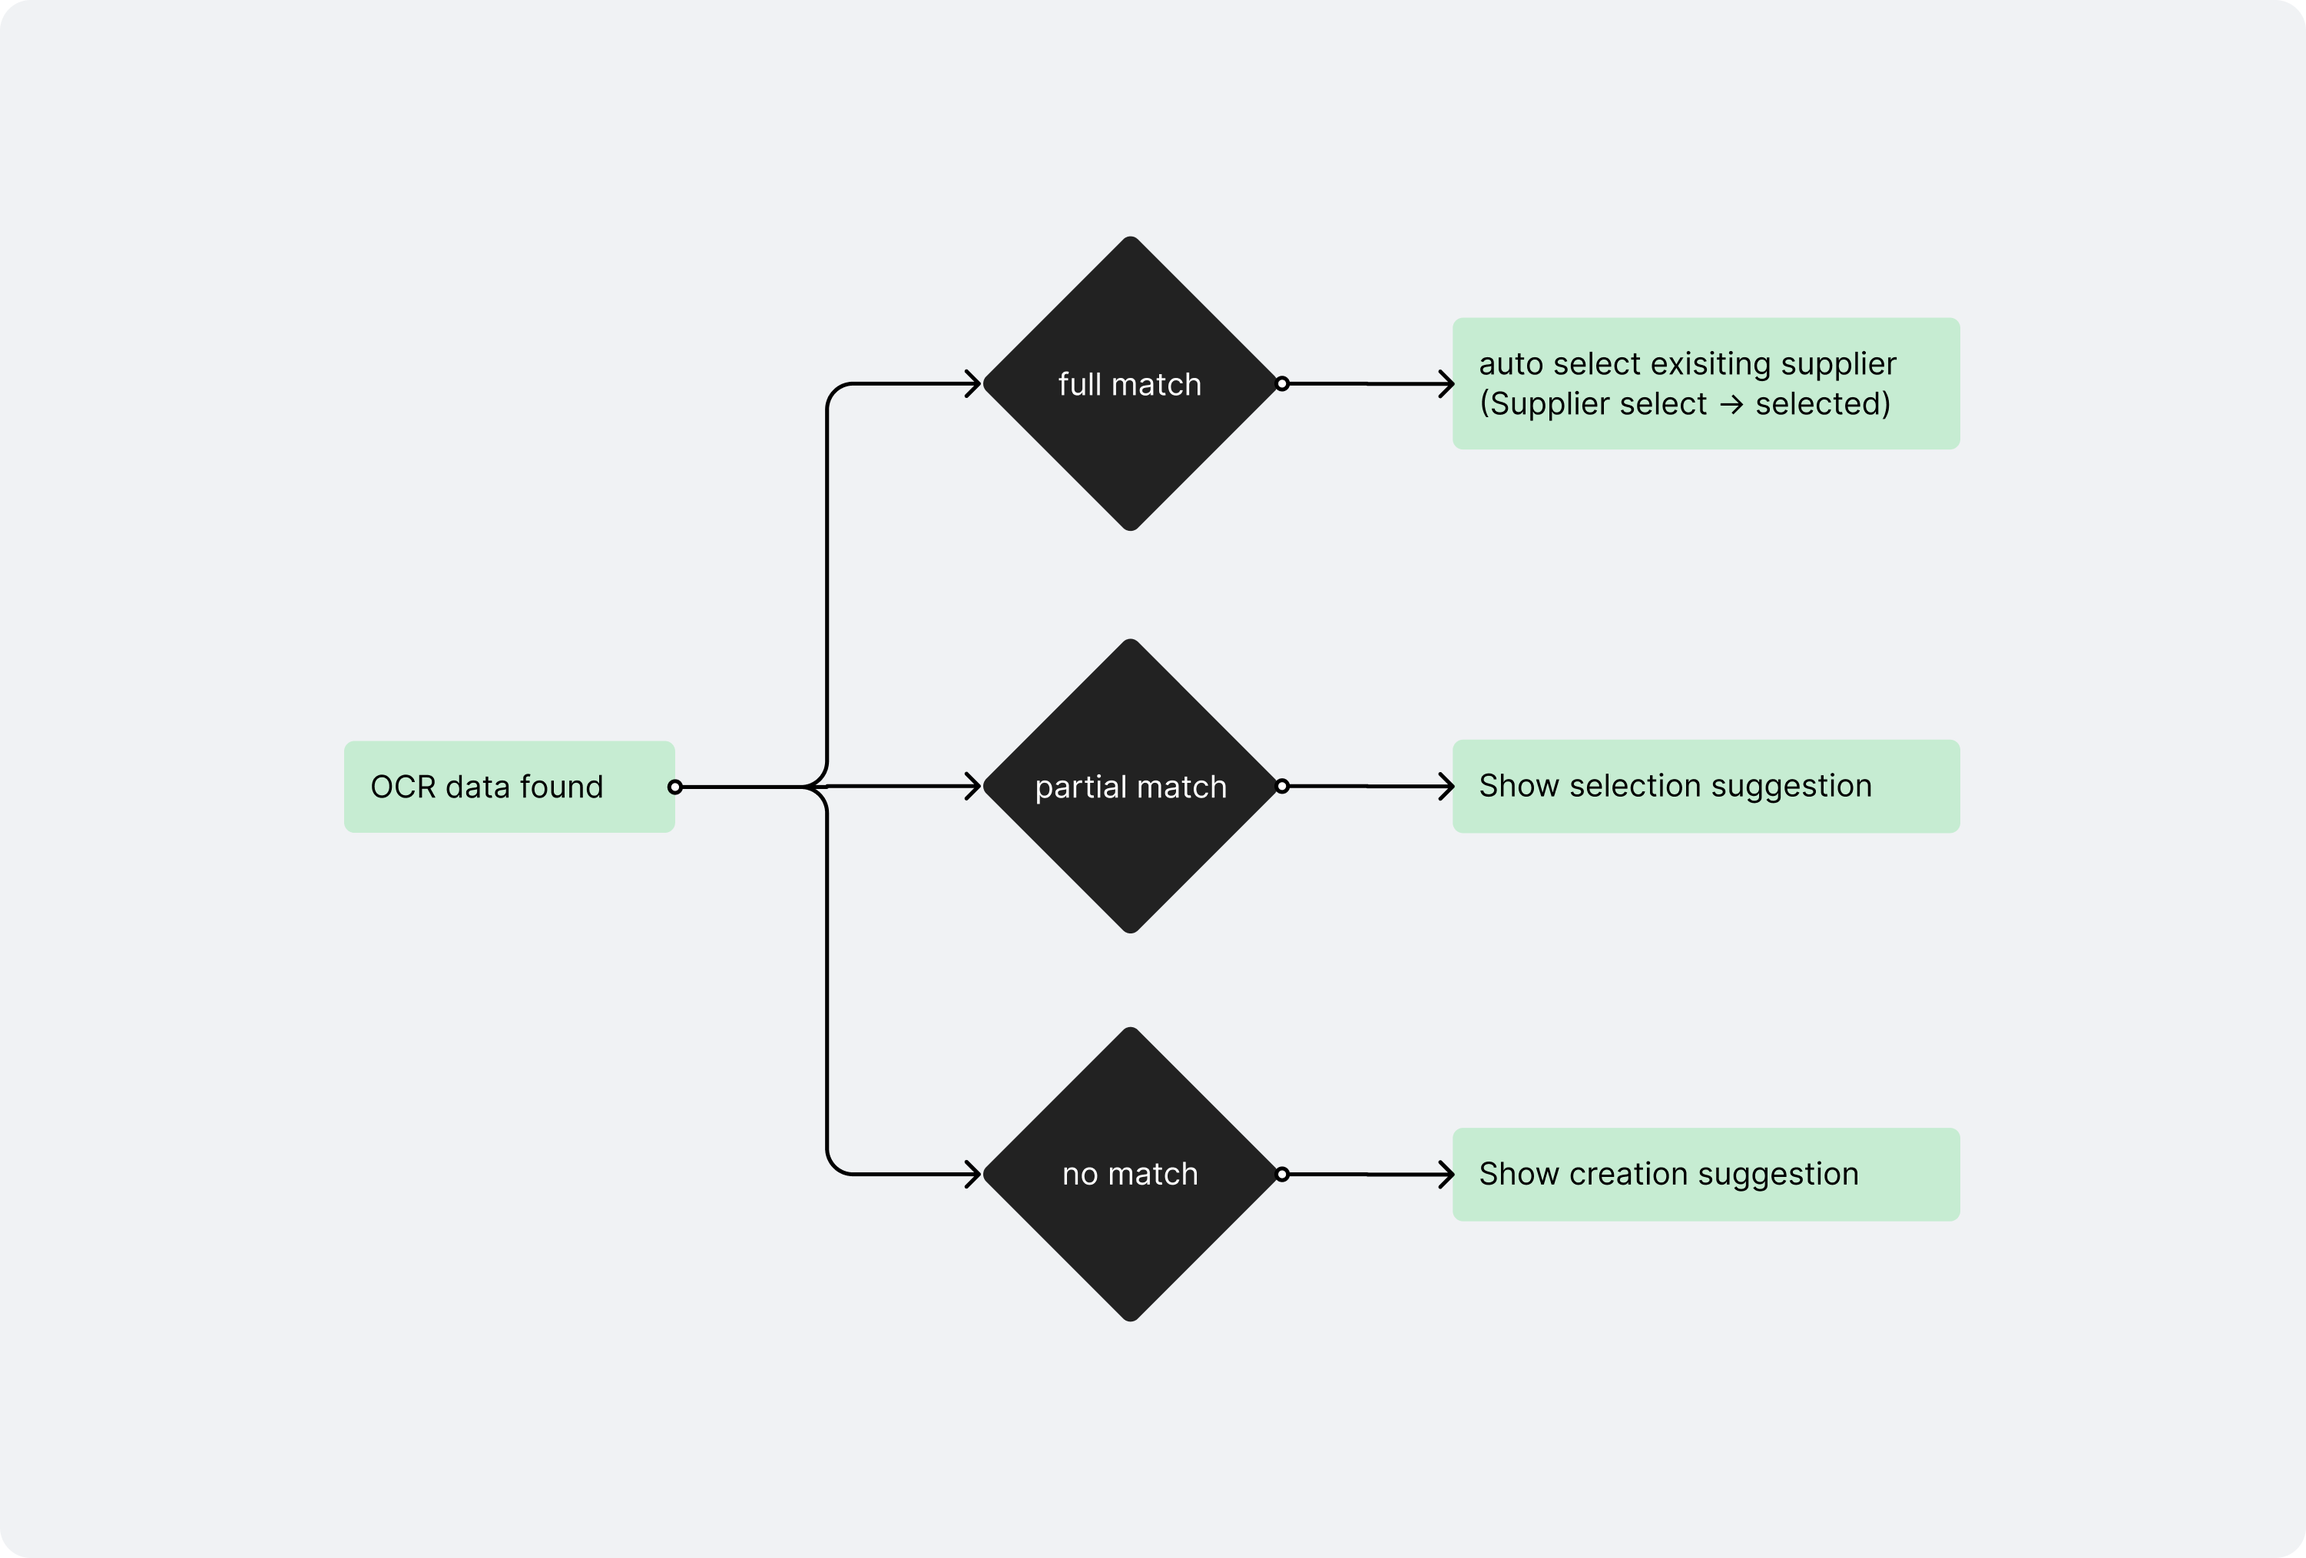
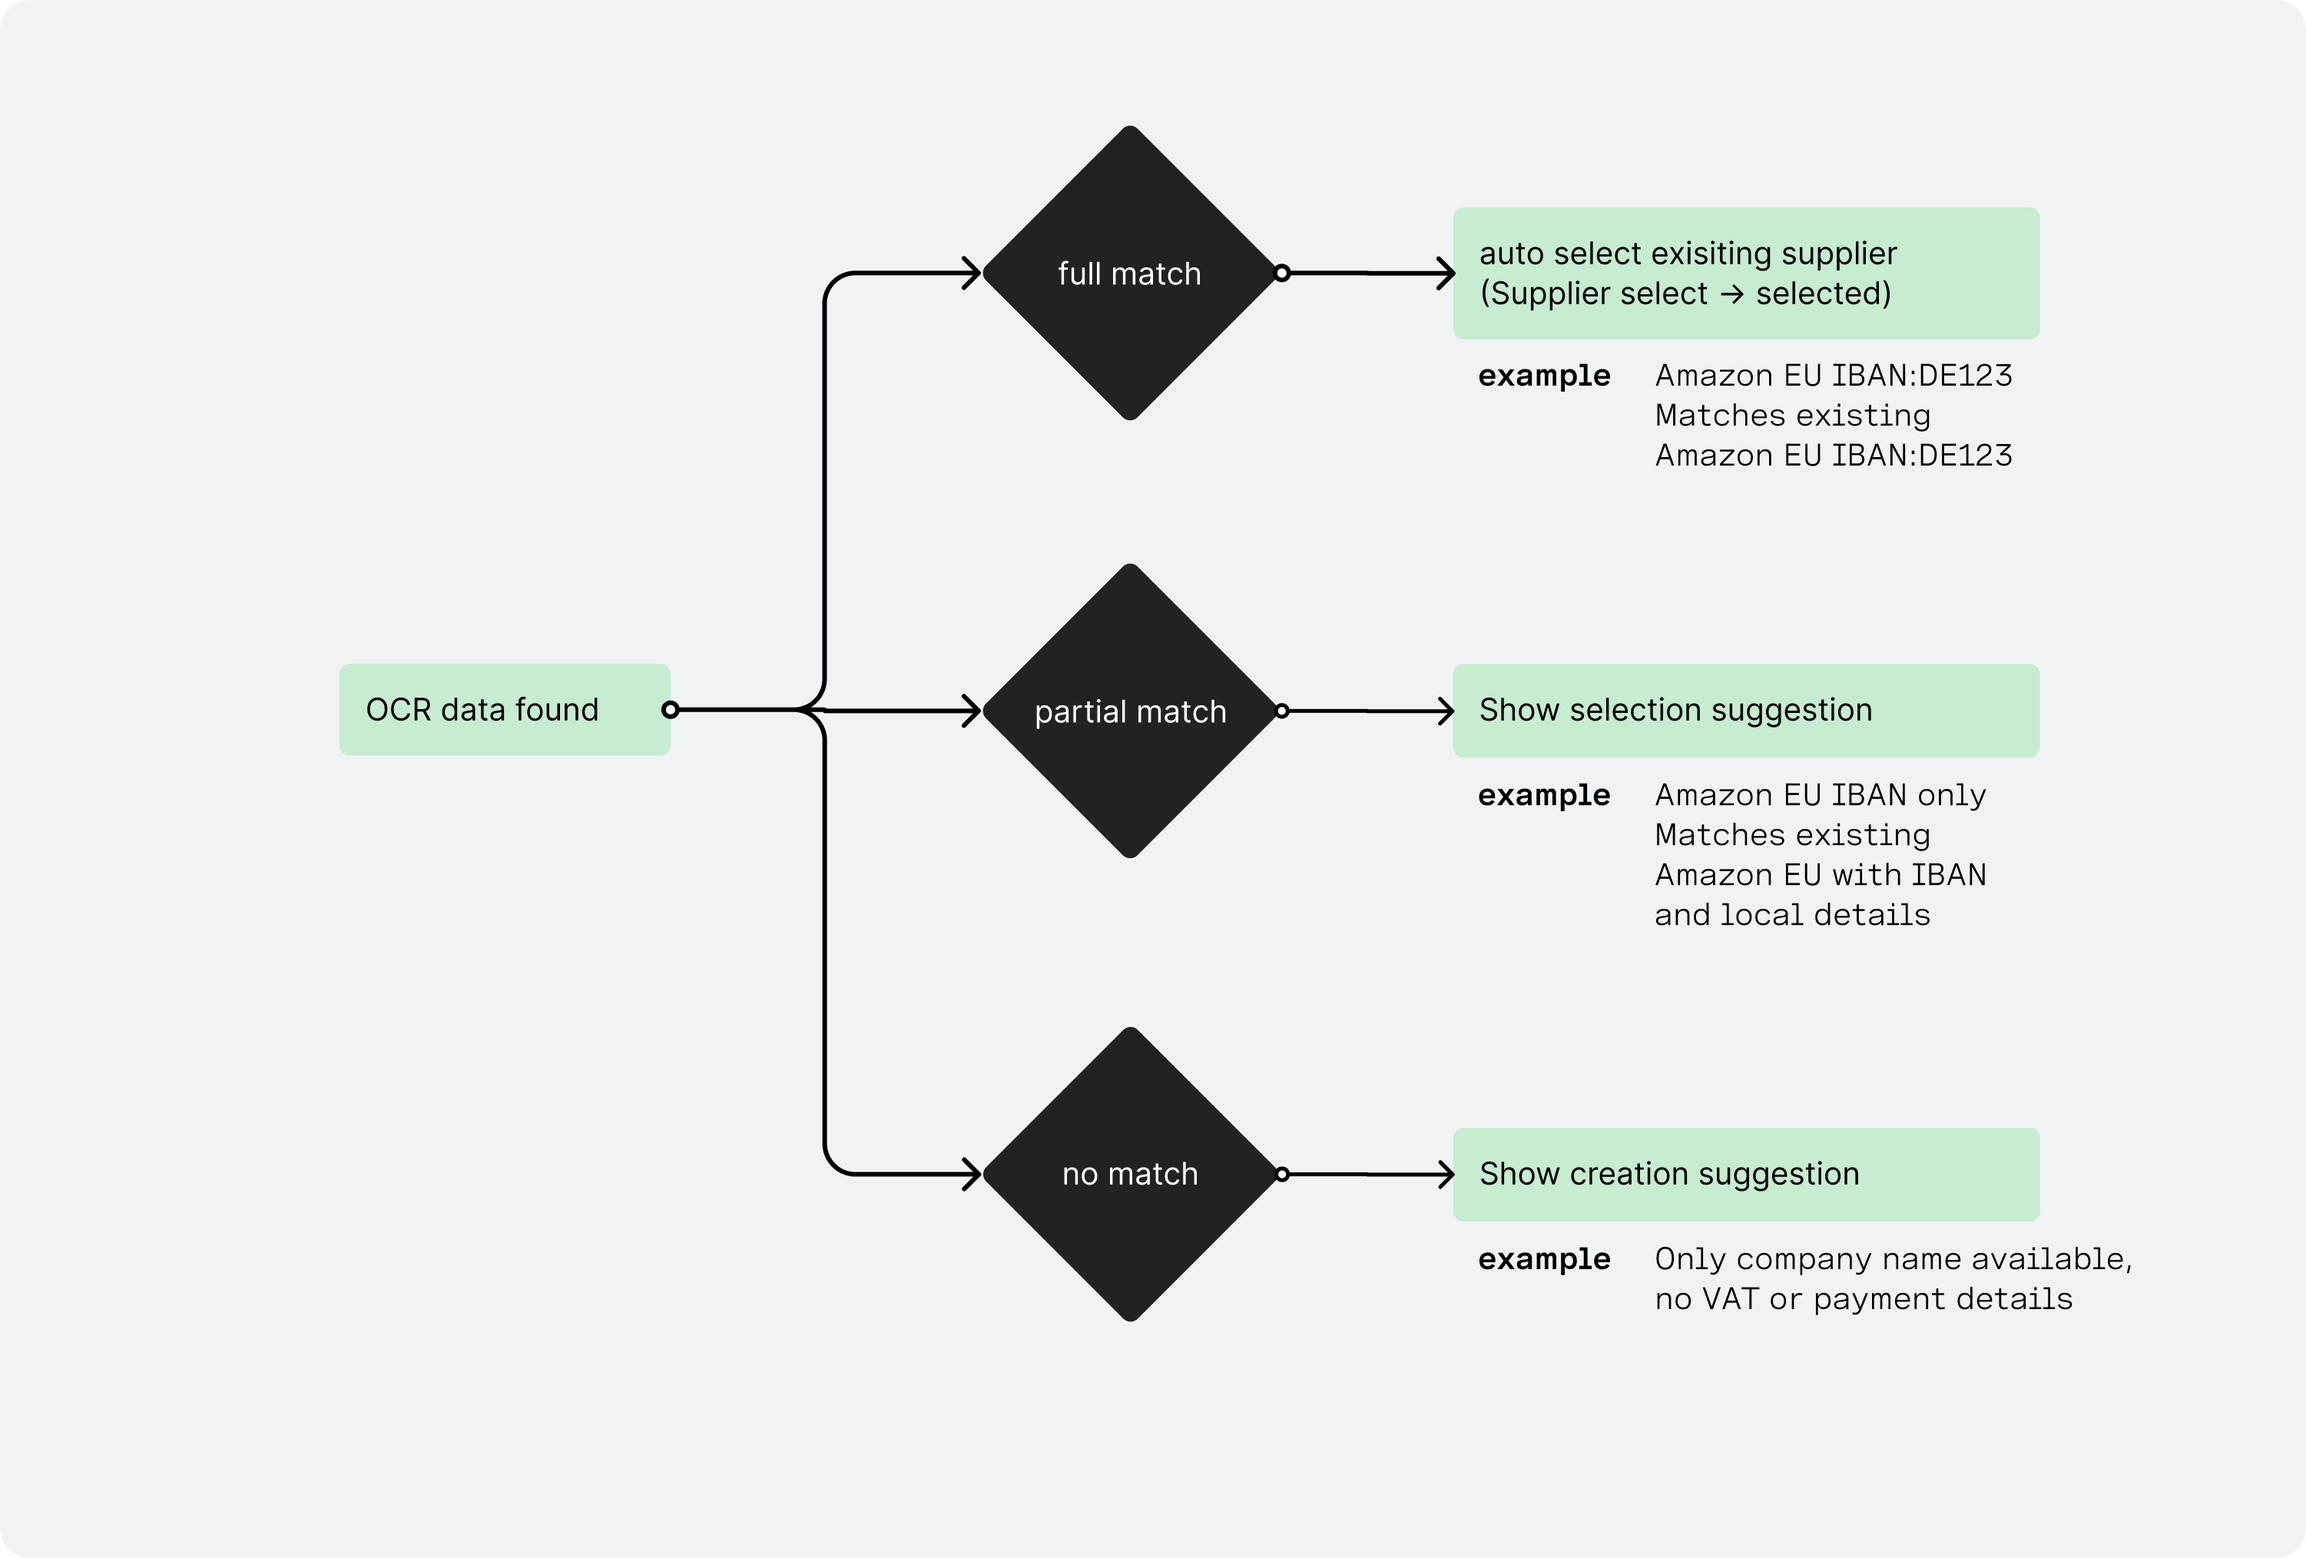
updates

diff --git a/src/InvoiceSuppliers/InvoiceSuppliers.js b/src/InvoiceSuppliers/InvoiceSuppliers.js
@@ -62,7 +62,8 @@ class InvoiceSuppliers extends React.Component {
       { id: 'collaborating-with-eng', label: 'Collaborating with engineers' },
       { id: 'creation-flow', label: 'Redesigned creation flow' },
       { id: 'suggested-supplier', label: 'Suggestion design' },
-      { id: 'design-pattern', label: 'Design pattern'}
+      { id: 'design-pattern', label: 'Design pattern'},
+      { id: 'results', label: 'Results'}
     ];
 
     return(
@@ -147,8 +148,8 @@ class InvoiceSuppliers extends React.Component {
                 </div>
 
                 <div className="data-card">
-                  <div className="data-label">Customer support tickets</div>
-                  <div className="data-value">High volume</div>
+                  <div className="data-label">Customer support tickets volume</div>
+                  <div className="data-value">High</div>
                 </div>
               </div>
 
@@ -199,12 +200,12 @@ class InvoiceSuppliers extends React.Component {
               The new approach included three confidence levels which guided product decisions:
               <ul>
               <li>
-              FULL_MATCH → Auto-assign supplier
+              Full match → Auto-assign supplier
               </li>
-              <li>PARTIAL_MATCH → Suggest existing supplier to the user and highlight what's matching
+              <li>Partial match → Suggest existing supplier to the user and highlight what's matching
               </li>
               <li>
-              NO_MATCH → Use the OCR data to guide the creation of the new supplier. User creates - not the backend
+              No match → Use the OCR data to guide the creation of the new supplier. User creates - not the backend
               </li>
               </ul>
               </p>
@@ -217,11 +218,14 @@ class InvoiceSuppliers extends React.Component {
             <div className="col5 ">
 
               <h2 ref={el => this.sectionRefs['creation-flow'] = el}>Solution 1: Redesigned creation flow</h2>
-
-              <p>To understand how to support the new flow best, I mapped out the old one first. Seemingly simple task was quite hard to achieve.
-              The user was not guided through the flow, ending up in a few dead ends without clear exit.
+              <h3>Understanding the problem</h3>
+              <p>Mapping the old flow revealed it was more complex than it appeared. Users weren't guided through the process and frequently encountered dead-ends with no clear way forward.
               </p>
-              <h3>Old design below</h3>
+              <p>Old design:</p>
+              <div className="callout">
+              <p>The old IA indicated 1:1 relationship between Supplier and Invoice. It gave the wrong impression to the user as in reality one supplier can
+              have multiple invoices. </p>
+              </div>
             </div>
           </div>
 
@@ -229,14 +233,27 @@ class InvoiceSuppliers extends React.Component {
 
           <div className="row justifyCenter">
             <div className="col5 ">
-              <h3>New design</h3>
-              <p>Removed: autocreation, supplier tab (unclear IA), unnecessary nested state from supplier view</p>
-              <p>Added: clear CTA to create new supplier using OCR data, drawer to display and edit supplier data</p>
+              <h3>What I changed</h3>
+              <p><span className="label-removed">What I removed</span></p>
+              <ul>
+              <li>Autocreation in all scenarios → System no longer creates suppliers without user confirmation (one of the main sources of duplicates)</li>
+              <li>Supplier tab → Reinforced incorrect 1:1 invoice-supplier relationship</li>
+              <li>Dead-end states → Added clear next actions at every decision point</li>
+              </ul>
+              <p><span className="label-added">What I added</span></p>
+              <ul>
+              <li>Clear creation CTA → Prominent button with OCR-prefilled data for review</li>
+              <li>Supplier drawer → Shows supplier as separate entity that can serve multiple invoices</li>
+              <li>Guided flow → Users understand their options at each step</li>
+              </ul>
               <p>The new design used OCR data from the invoice pdf. The user only needs to review it and confirm the creation. This way the user
               has control over what's in the system. We removed the autocreation step as this was one of the main factors contributing to high number of supplier duplicates.</p>
               <div className="callout">
-              <p>I tested this flow with 5 users and all understood it without any troubles!</p>
+              <p>The drawer pattern was crucial as it made supplier feel like a separate entity, not nested under invoice.</p>
               </div>
+              <h3>Key decisions</h3>
+              <p>When no full match or partial match was found but OCR data from the PDF was there, we showed the CTA to create a new supplier.
+              In the past, this was one of the scenarios contributing to duplicate creation.</p>
             </div>
           </div>
 
@@ -246,27 +263,64 @@ class InvoiceSuppliers extends React.Component {
             <div className="col5 ">
 
               <h2 ref={el => this.sectionRefs['suggested-supplier'] = el}>Solution 2: Suggestion design</h2>
-
+              <h3>Early explorations</h3>
               <p>
+              I tested 3 versions of the suggestion design. My first two designs failed during usability testing.
+              Version 1 showed supplier suggestions with incomplete payment details, which confused users.
+              In Version 2, I added an informational callout to explain the situation, but users still hesitated to select this suggestion.
+              Despite understanding the explanation, they lacked confidence.
               </p>
+              <p><span className="label-learnt">What I learnt</span></p>
+              <p>Through testing, I discovered that users needed complete payment details to trust suggestions. They also wanted a clear visual overview showing which fields matched and which didn't. Most importantly, explanatory text alone couldn't compensate for incomplete data. Users needed to see the data itself to feel confident in their decision.</p>
             </div>
 
           </div>
 
           <div className="row" style={{ gap: '40px' }}>
             <div className="col6">
+              <p>Version 1</p>
               <img src={require("./../assets/img/Pleo/suppliers/suggestedOCR-1.png")} className="mainImgNoMargin"/>
             </div>
             <div className="col6">
+              <p>Version 2</p>
               <img src={require("./../assets/img/Pleo/suppliers/suggestedOCR.png")} className="mainImgNoMargin"/>
             </div>
           </div>
+          <div className="row justifyCenter">
+            <div className="col5 ">
+
+              <h3>Final suggestion pattern</h3>
+
+              <p>After a few iterations of testing, I came up with the final suggestion pattern. Users wanted to have high confidence when
+              selecting the suggestion. Adding the checkboxes with overview helped them understand what's the same on the PDF as in our database.
+              </p>
+              <p>I took the product decision to only suggest suppliers with payment details. This meant less suggestions, but higher acceptance rate.
+              </p>
+              <div className="callout">
+              <p>This design pattern was used accross the product to suggest Purchase Orders and Supplier data.</p>
+              </div>
+            </div>
+
+          </div>
+
           <img src={require("./../assets/img/Pleo/suppliers/suggestionFinal.gif")} className="mainImgNoMargin"/>
 
           <div className="row justifyCenter">
             <div className="col5 ">
 
-              <h2 ref={el => this.sectionRefs['design-pattern'] = el}>Solution 3: Creating a design pattern</h2>
+              <h2 ref={el => this.sectionRefs['design-pattern'] = el}>Solution 3: Expanding the design pattern with CTAs to add and edit details </h2>
+
+              <p>
+              </p>
+            </div>
+            </div>
+
+          <img src={require("./../assets/img/Pleo/suppliers/design-pattern.png")} className="mainImgNoMargin"/>
+
+          <div className="row justifyCenter">
+            <div className="col5 ">
+
+              <h2 ref={el => this.sectionRefs['results'] = el}>Results</h2>
 
               <p>
               </p>

diff --git a/src/InvoiceSuppliers/InvoiceSuppliers.scss b/src/InvoiceSuppliers/InvoiceSuppliers.scss
@@ -179,14 +179,14 @@
   border-left: 2px solid #1a1a1a;
   padding: 1rem 1.25rem;
   margin: 1.5rem 0;
-  font-size: 0.875rem;
+  font-size: 1rem;
   line-height: 1.625;
   color: #4a4a4a;
 
   // Nested elements maintain proper spacing
   p {
     margin: 0;
-    font-size: 0.875rem;
+    font-size: 1rem;
     line-height: 1.625;
     color: #4a4a4a;
 
@@ -207,7 +207,17 @@
   }
 
   &.callout-emphasis {
-    background: #f5f5f5;
+    background: #DCD7F4;
+    border-left-width: 3px;
+
+    p {
+      font-weight: 500;
+      color: #1a1a1a;
+    }
+  }
+
+  &.callout-success {
+    background: #C6ECD2;
     border-left-width: 3px;
 
     p {
@@ -274,4 +284,30 @@ h3.animate-on-scroll {
     transform: none !important;
     transition: none !important;
   }
+}
+
+.label-removed,
+.label-added,
+.label-learnt {
+  font-weight: 500;
+  font-size: 16px;
+  padding: 2px 8px;
+  border-radius: 4px;
+  margin-right: 8px;
+  display: inline-block;
+}
+
+.label-removed {
+  background-color: #FFE5E5;
+  color: #D32F2F;
+}
+
+.label-added {
+  background-color: #E8F5E9;
+  color: #2E7D32;
+}
+
+.label-learnt {
+  background-color: #E3F2FD;
+  color: #1565C0;
 }

diff --git a/src/Hello/Hello.js b/src/Hello/Hello.js
@@ -15,8 +15,8 @@ export default class Hello extends React.Component {
           Hi there!
           <p id="workLink" className='smallText'>
           I'm <a href="mailto:kejtizuki@gmail.com" className="linkHighlight">Kasia Żukowska</a> Polish
-          Product Designer based in between Berlin and Copenhagen. I enjoy building interactive experiences and digital products. Currently
-          building Invoices at <a href="https://www.pleo.io/" className="linkHighlight">Pleo</a>.
+          Product Designer based in Berlin. I enjoy building interactive experiences and digital products. Currently
+          building Accounts Payables at <a href="https://www.pleo.io/" className="linkHighlight">Pleo</a>.
           </p>
         </div>
         {/* <div className="picture">
